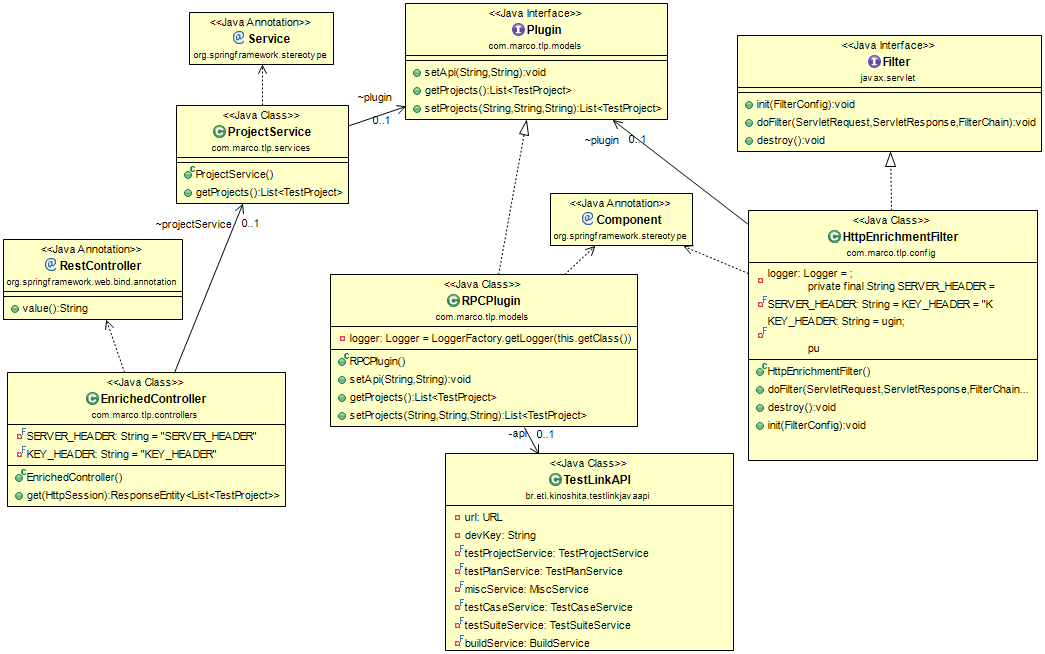
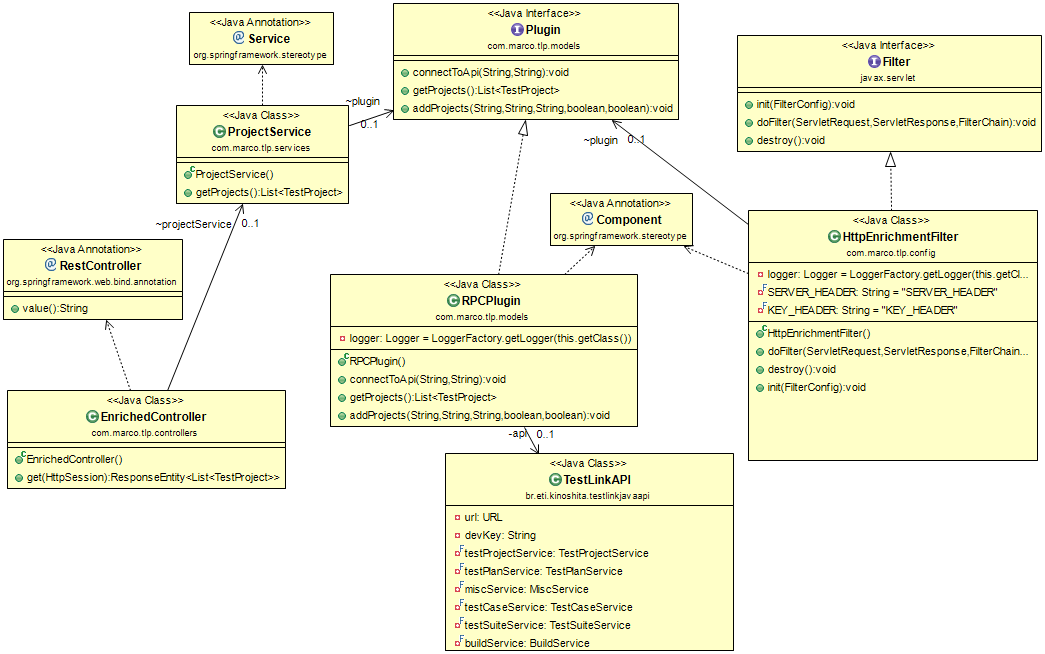
Added Plan and Project service

diff --git a/testlink-plugin/src/main/java/com/marco/tlp/models/RPCPlugin.java b/testlink-plugin/src/main/java/com/marco/tlp/models/RPCPlugin.java
@@ -2,7 +2,6 @@ package com.marco.tlp.models;
 
 import java.net.MalformedURLException;
 import java.net.URL;
-import java.util.Arrays;
 import java.util.List;
 
 import org.slf4j.Logger;
@@ -12,7 +11,11 @@ import org.springframework.context.annotation.ScopedProxyMode;
 import org.springframework.stereotype.Component;
 import org.springframework.web.context.WebApplicationContext;
 
+import com.marco.tlp.models.RPCControllers.TestPlanController;
+import com.marco.tlp.models.RPCControllers.TestProjectController;
+
 import br.eti.kinoshita.testlinkjavaapi.TestLinkAPI;
+import br.eti.kinoshita.testlinkjavaapi.model.TestPlan;
 import br.eti.kinoshita.testlinkjavaapi.model.TestProject;
 import br.eti.kinoshita.testlinkjavaapi.util.TestLinkAPIException;
 
@@ -22,10 +25,9 @@ public class RPCPlugin implements Plugin {
 
 	private Logger logger = LoggerFactory.getLogger(this.getClass());
 
-	private TestLinkAPI api = null;
+	protected TestLinkAPI api = null;
 
-
-	public void setApi(String url, String devKey) {
+	public void connectToApi(String url, String devKey) {
 		URL testlinkURL = null;
 		try {
 			testlinkURL = new URL(url);
@@ -42,13 +44,16 @@ public class RPCPlugin implements Plugin {
 
 	@Override
 	public List<TestProject> getProjects() {
-		return Arrays.asList(api.getProjects());
+		return new TestProjectController(api).getProjects();
 	}
 
 	@Override
-	public List<TestProject> setProjects(String name, String prefix, String notes) {
-		// TODO Auto-generated method stub
-		return null;
+	public List<TestPlan> getProjectTestPlans(Integer projectId) {
+		return new TestPlanController(api).getTestPlanByProject(projectId);
 	}
 
+	@Override
+	public TestPlan getProjectTestPlan(String planName, String projectName) {
+		return new TestPlanController(api).getTestPlanByName(planName, projectName);
+	}
 }

diff --git a/testlink-plugin/src/main/java/com/marco/tlp/controllers/TestPlanRestController.java b/testlink-plugin/src/main/java/com/marco/tlp/controllers/TestPlanRestController.java
@@ -1,0 +1,46 @@
+package com.marco.tlp.controllers;
+
+import java.util.List;
+
+import javax.servlet.http.HttpSession;
+
+import org.springframework.beans.factory.annotation.Autowired;
+import org.springframework.http.ResponseEntity;
+import org.springframework.web.bind.annotation.GetMapping;
+import org.springframework.web.bind.annotation.PathVariable;
+import org.springframework.web.bind.annotation.RequestMapping;
+import org.springframework.web.bind.annotation.RequestParam;
+import org.springframework.web.bind.annotation.RestController;
+
+import com.marco.tlp.services.TestPlanService;
+
+import br.eti.kinoshita.testlinkjavaapi.model.TestPlan;
+
+@RestController
+@RequestMapping("/testlink-plugin/testplan")
+public class TestPlanRestController {
+	private TestPlanService testPlanService;
+
+	@Autowired
+	public TestPlanRestController(TestPlanService testPlanService) {
+		assert (testPlanService != null);
+		this.testPlanService = testPlanService;
+	}
+
+	@GetMapping("/{projectID}")
+	public ResponseEntity<List<TestPlan>> get(HttpSession session, @PathVariable Integer projectID) {
+		List<TestPlan> testPlans = testPlanService.getProjectTestPlans(projectID);
+		if (testPlans != null)
+			return ResponseEntity.ok().body(testPlans);
+		return ResponseEntity.notFound().build();
+	}
+
+	@GetMapping
+	public ResponseEntity<TestPlan> get(HttpSession session, @RequestParam("planName") String planName,
+			@RequestParam("projectName") String projectName) {
+		TestPlan testPlan = testPlanService.getProjectTestPlan(planName, projectName);
+		if (testPlan != null)
+			return ResponseEntity.ok().body(testPlan);
+		return ResponseEntity.notFound().build();
+	}
+}

diff --git a/testlink-plugin/src/main/java/com/marco/tlp/models/Plugin.java b/testlink-plugin/src/main/java/com/marco/tlp/models/Plugin.java
@@ -2,14 +2,26 @@ package com.marco.tlp.models;
 
 import java.util.List;
 
+import br.eti.kinoshita.testlinkjavaapi.model.TestPlan;
 import br.eti.kinoshita.testlinkjavaapi.model.TestProject;
 
 public interface Plugin {
-	
-	void setApi(String url, String devKey);
-	
-	List<TestProject> getProjects();
 
-	List<TestProject> setProjects(String name, String prefix, String notes);
+	void connectToApi(String url, String devKey);
+
+	public List<TestProject> getProjects();
+
+	public List<TestPlan> getProjectTestPlans(Integer projectId);
+
+	public TestPlan getProjectTestPlan(String planName, String projectName);
+	//
+	// public Build[] getTestPlansBuilds(Integer testPlanId);
+	//
+	// public TestCase[] getTestCasesForTestPlan(Integer testPlanId, Integer
+	// buildId);
+	//
+	// public void executeTest(Integer testCaseId, Integer testPlanId, Integer
+	// buildId, String notes,
+	// ExecutionStatus status);
 
 }

diff --git a/testlink-plugin/src/main/java/com/marco/tlp/controllers/ProjectRestController.java b/testlink-plugin/src/main/java/com/marco/tlp/controllers/ProjectRestController.java
@@ -15,16 +15,16 @@ import com.marco.tlp.services.ProjectService;
 import br.eti.kinoshita.testlinkjavaapi.model.TestProject;
 
 @RestController
-@RequestMapping("/api")
-public class EnrichedController {
-	private final String SERVER_HEADER = "SERVER_HEADER";
-	private final String KEY_HEADER = "KEY_HEADER";
-
+@RequestMapping("/testlink-plugin/testproject")
+public class ProjectRestController {
 	@Autowired
 	ProjectService projectService;
 
 	@GetMapping
 	public ResponseEntity<List<TestProject>> get(HttpSession session) {
-		return ResponseEntity.ok().body(projectService.getProjects());
+		List<TestProject> testProject = projectService.getProjects();
+		if (testProject != null)
+			return ResponseEntity.ok().body(testProject);
+		return ResponseEntity.notFound().build();
 	}
 }

diff --git a/testlink-plugin/src/main/java/com/marco/tlp/controllers/ExceptionRestController.java b/testlink-plugin/src/main/java/com/marco/tlp/controllers/ExceptionRestController.java
@@ -1,0 +1,18 @@
+package com.marco.tlp.controllers;
+
+import org.springframework.http.HttpStatus;
+import org.springframework.web.bind.annotation.ExceptionHandler;
+import org.springframework.web.bind.annotation.ResponseStatus;
+import org.springframework.web.bind.annotation.RestController;
+
+import com.marco.tlp.config.MissingCustomHeaderException;
+
+@RestController
+public class ExceptionRestController {
+	
+	@ResponseStatus(HttpStatus.BAD_REQUEST)
+	@ExceptionHandler(MissingCustomHeaderException.class)
+	public String exception(MissingCustomHeaderException e) {
+	    return new String("ERROR" + e.getMessage());
+	}
+}

diff --git a/testlink-plugin/src/main/java/com/marco/tlp/services/TestPlanService.java b/testlink-plugin/src/main/java/com/marco/tlp/services/TestPlanService.java
@@ -1,0 +1,24 @@
+package com.marco.tlp.services;
+
+import java.util.List;
+
+import org.springframework.beans.factory.annotation.Autowired;
+import org.springframework.stereotype.Service;
+
+import com.marco.tlp.models.Plugin;
+
+import br.eti.kinoshita.testlinkjavaapi.model.TestPlan;
+
+@Service
+public class TestPlanService {
+	@Autowired
+	Plugin plugin;
+	
+	public List<TestPlan> getProjectTestPlans(Integer projectId) {
+		return plugin.getProjectTestPlans(projectId);
+	}
+
+	public TestPlan getProjectTestPlan(String planName, String projectName) {
+		return plugin.getProjectTestPlan(planName, projectName);
+	}
+}

diff --git a/testlink-plugin/src/main/java/com/marco/tlp/models/RPCControllers/TestPlanController.java b/testlink-plugin/src/main/java/com/marco/tlp/models/RPCControllers/TestPlanController.java
@@ -1,0 +1,21 @@
+package com.marco.tlp.models.RPCControllers;
+
+import java.util.List;
+
+import br.eti.kinoshita.testlinkjavaapi.TestLinkAPI;
+import br.eti.kinoshita.testlinkjavaapi.model.TestPlan;
+
+public class TestPlanController extends Controller<TestPlan> {
+	
+	public TestPlanController(TestLinkAPI api) {
+		super(api);
+	}
+
+	public List<TestPlan> getTestPlanByProject(Integer projectId) {
+		return this.toList(api.getProjectTestPlans(projectId));
+	}
+
+	public TestPlan getTestPlanByName(String planName, String projectName) {
+		return api.getTestPlanByName(planName, projectName);
+	}
+}

diff --git a/testlink-plugin/src/main/java/com/marco/tlp/config/HttpEnrichmentFilter.java b/testlink-plugin/src/main/java/com/marco/tlp/config/HttpEnrichmentFilter.java
@@ -32,7 +32,9 @@ public class HttpEnrichmentFilter implements Filter {
 		HttpServletRequest request = (HttpServletRequest) req;
 		String server = request.getHeader(SERVER_HEADER);
 		String key = request.getHeader(KEY_HEADER);
-		plugin.setApi(server, key);
+		if (server == null || key == null)
+			throw new MissingCustomHeaderException("'SERVER_HEADER or KEY_HEADER' on the request is required.");
+		plugin.connectToApi(server, key);
 		logger.info("Login in the url: " + server + "with the following API KEY -> " + key);
 		chain.doFilter(req, res);
 	}

diff --git a/testlink-plugin/src/main/java/com/marco/tlp/models/RPCControllers/BuildController.java b/testlink-plugin/src/main/java/com/marco/tlp/models/RPCControllers/BuildController.java
@@ -1,0 +1,18 @@
+package com.marco.tlp.models.RPCControllers;
+
+import java.util.List;
+
+import br.eti.kinoshita.testlinkjavaapi.TestLinkAPI;
+import br.eti.kinoshita.testlinkjavaapi.model.Build;
+
+public class BuildController extends Controller<Build> {
+	
+	public BuildController(TestLinkAPI api) {
+		super(api);
+	}
+	
+	public List<Build> getBuildByTestPlan(Integer testPlanId) {
+		return this.toList(api.getBuildsForTestPlan(testPlanId));
+	}
+
+}

diff --git a/testlink-plugin/src/main/java/com/marco/tlp/models/RPCControllers/TestProjectController.java b/testlink-plugin/src/main/java/com/marco/tlp/models/RPCControllers/TestProjectController.java
@@ -1,0 +1,19 @@
+package com.marco.tlp.models.RPCControllers;
+
+import java.util.List;
+
+import br.eti.kinoshita.testlinkjavaapi.TestLinkAPI;
+import br.eti.kinoshita.testlinkjavaapi.model.TestProject;
+
+public class TestProjectController extends Controller<TestProject> {
+
+	
+	public TestProjectController(TestLinkAPI api) {
+		super(api);
+	}
+
+	
+	public List<TestProject> getProjects() {
+		return  this.toList(api.getProjects());
+	}
+}

diff --git a/testlink-plugin/src/main/java/com/marco/tlp/config/MissingCustomHeaderException.java b/testlink-plugin/src/main/java/com/marco/tlp/config/MissingCustomHeaderException.java
@@ -1,0 +1,15 @@
+package com.marco.tlp.config;
+
+import org.springframework.http.HttpStatus;
+import org.springframework.web.bind.annotation.ResponseStatus;
+
+@ResponseStatus(value=HttpStatus.BAD_REQUEST, reason="No enriched headers provided")
+public class MissingCustomHeaderException extends RuntimeException{
+
+	private static final long serialVersionUID = 5L;
+	
+	public MissingCustomHeaderException(String msg) {
+		super(msg);
+	}
+
+}

diff --git a/testlink-plugin/src/main/java/com/marco/tlp/models/RPCControllers/Controller.java b/testlink-plugin/src/main/java/com/marco/tlp/models/RPCControllers/Controller.java
@@ -1,0 +1,19 @@
+package com.marco.tlp.models.RPCControllers;
+
+import java.util.Arrays;
+import java.util.List;
+
+import br.eti.kinoshita.testlinkjavaapi.TestLinkAPI;
+
+
+public abstract class Controller<Type>{	
+	protected TestLinkAPI api;
+	
+	protected Controller(TestLinkAPI api) {
+		this.api = api;
+	}
+	
+	protected List<Type> toList(Type[] t) {
+		return Arrays.asList(t);
+	}
+}
